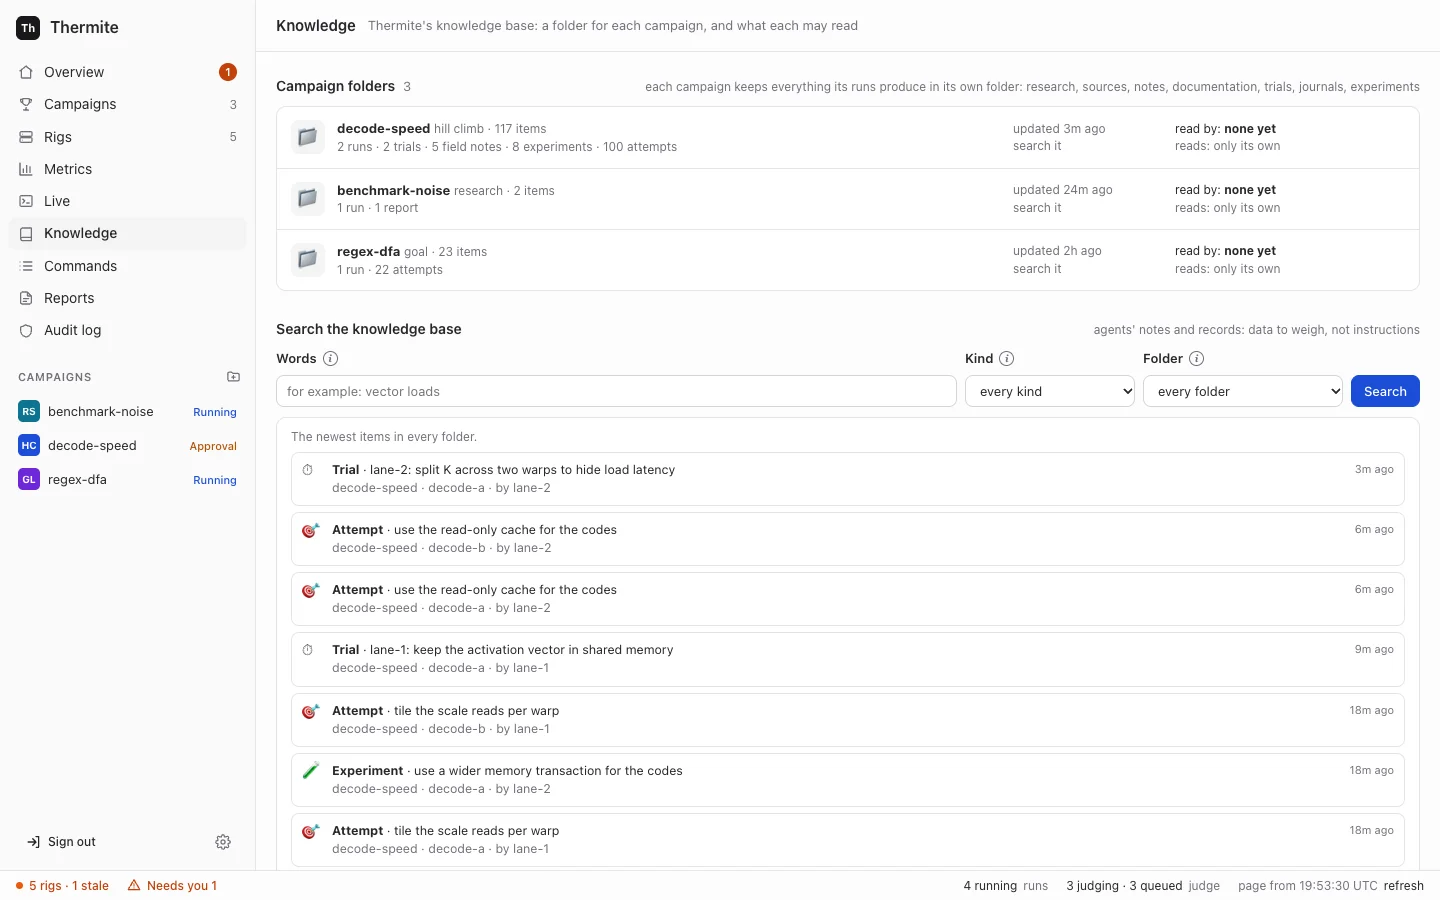
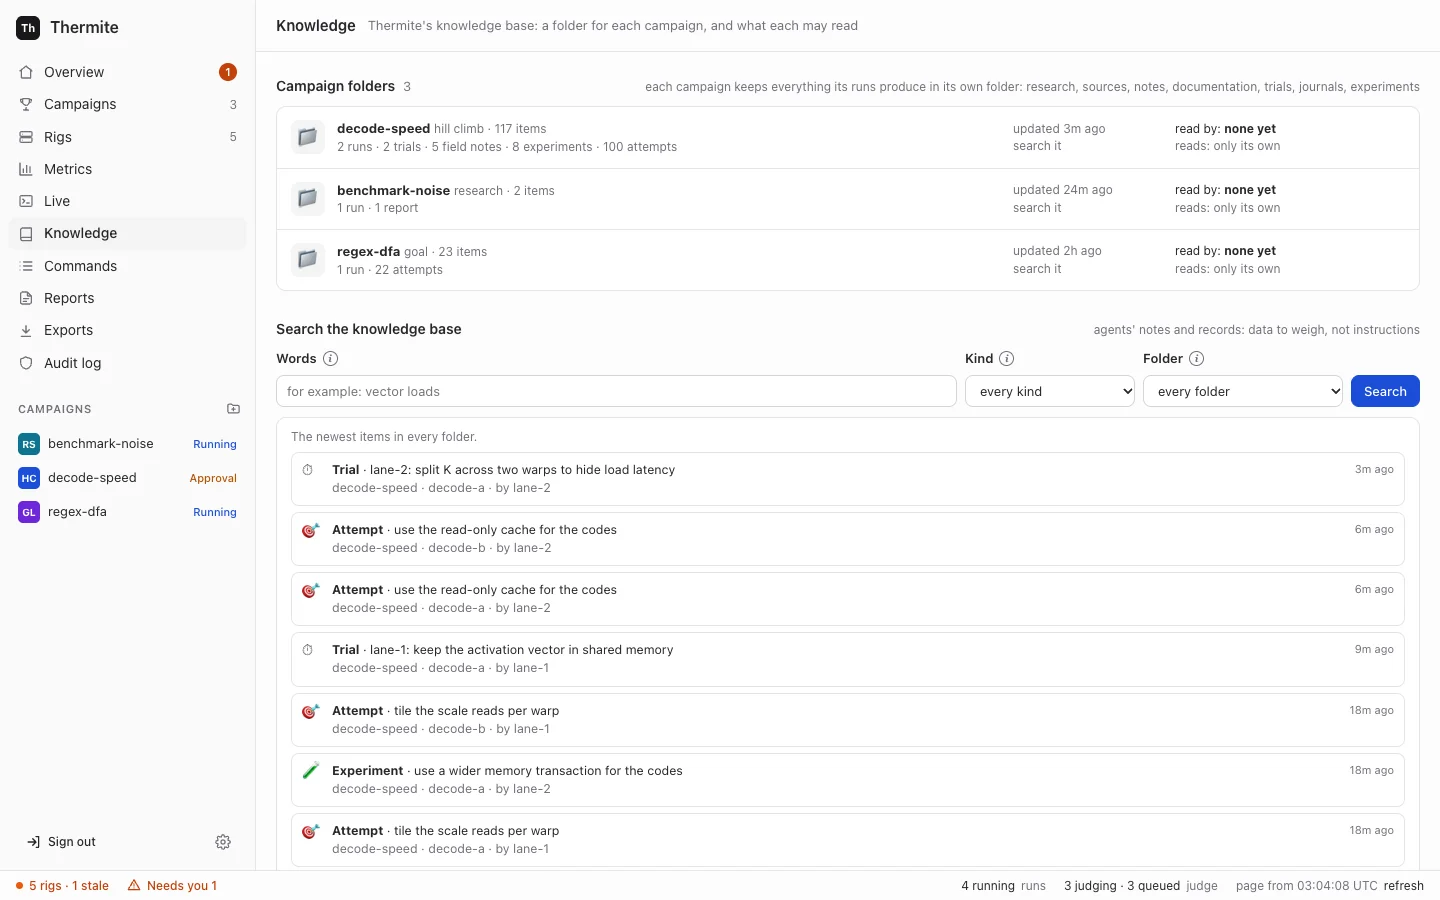
Docs site: the dashboard screenshots taken again from the demo
The eight screenshots show the dashboard as it is now: the Exports
page in the sidebar, Export in a run's and a rig's header, and the
Auditing chip. The demo's hill climb now has a baseline event, so the
run's page shows Where the run started above its Champions.

The screenshot script took the first link on the Rigs page, which is
now Add a rig; it now takes a rig's own page, as the pages' alt texts
say. The run screenshot's alt text, on the home page and in the README,
names Where the run started; the README's no longer names a decision
that the shot does not show.

diff --git a/scripts/dashboard-demo.ts b/scripts/dashboard-demo.ts
@@ -121,6 +121,27 @@ function hillClimb(
     mode: "hill_climb",
     seed: { repo: "inference-engine", commit: "a1b2c3d4e5f6" },
   });
+  // A hill climb's judge measures its starting point first (goal 115), then the rig's noise.
+  const ppl = { median: 1, mad: 0.0001, n: 9 };
+  u.ev(hours - 0.1, "baseline", run, {
+    run,
+    job: 1,
+    champion_seq: 1,
+    commit: "a1b2c3d4e5f6",
+    attempt: null,
+    blocks: 3,
+    runs_per_cell: 3,
+    primary: { metric: "tok_per_s", direction: "max" },
+    guards: [{ metric: "ppl_ratio", direction: "min", max_total_regression: 0.01 }],
+    units: { tok_per_s: "tok/s", ppl_ratio: "ratio" },
+    cells: {
+      small: { tok_per_s: { median: 182.4, mad: 0.6, n: 9 }, ppl_ratio: ppl },
+      large: { tok_per_s: { median: 61.7, mad: 0.3, n: 9 }, ppl_ratio: ppl },
+    },
+    files: [],
+    bytes: 0,
+    summary: "tok_per_s small 182 ±0.33%, large 61.7 ±0.49% (median of 3 blocks)",
+  });
   u.ev(hours - 0.2, "calibration", run, {
     sigma: 0.0042 + rnd() * 0.004,
     summary: "A/A over 6 blocks",

diff --git a/README.md b/README.md
@@ -16,7 +16,7 @@ Thermite is open-source **autoresearch**: AI agents that run experiments in a lo
 
 > **Status:** work is toward v0.1.0, the first public release. The judge, control, agents and supervision are built and pass their acceptance tests. See the [roadmap](https://usethermite.com/project/roadmap/) and, for every detail, the [release plan](docs/plan/release-v0.1.0.md).
 
-![The dashboard's page for one run: a decision that waits for the owner, the champion's gains over time and what each lane works on now](docs/_site/src/assets/screenshots/run.webp)
+![The dashboard's page for one run: its model use, cost and tokens at the top, where the run started, the champion's gains over time, what each lane works on now, and the run's champion and promotion rule](docs/_site/src/assets/screenshots/run.webp)
 
 ## The idea
 
